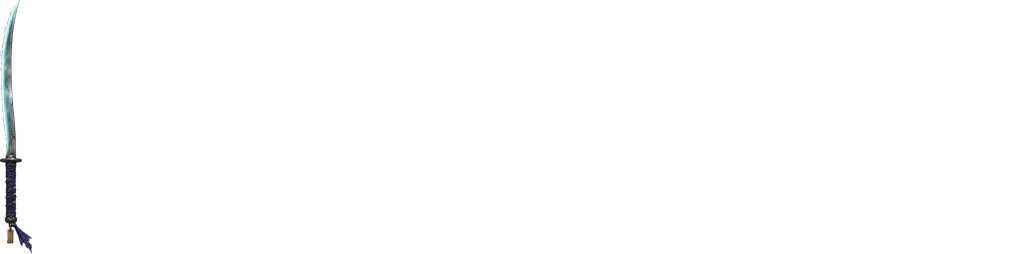
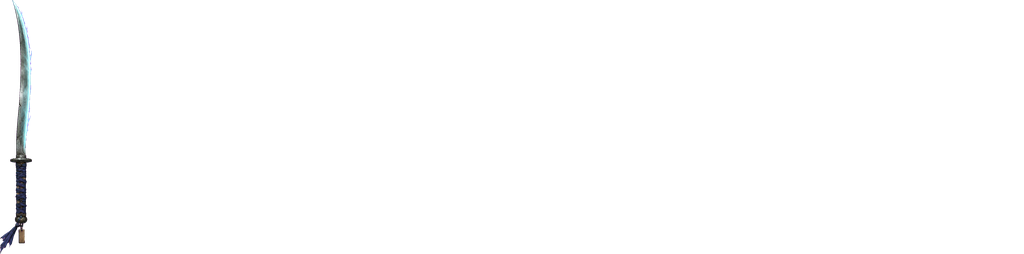
칼 쥐는 방향 수정, 자동 전투 때 영웅이 알아서 싸우러 가게
- 환도 그림을 좌우로 뒤집어 날이 아래(앞)로 오게, 평소 자세는 칼끝이 앞을 향하게
- 자동 전투가 켜져 있으면 진형 유지·따라와 명령이어도 가장 가까운 적에게 돌격

Claude-Session: https://claude.ai/code/session_01VjuNGxx5wxmvTcPiCBoU6q

Changed region(s): [[0.0, 0.0, 0.0312, 0.9921]]

diff --git a/cheonha.html b/cheonha.html
@@ -2436,7 +2436,7 @@ const Rig = (() => {
     hwando: {
       src: 'img/rig/wpn_hwando.png',
       parts: {
-        blade: { r: [0, 0, 32, 254], pv: [11.1, 185.3], tip: [18.7, 0.9] },
+        blade: { r: [0, 0, 32, 254], pv: [20.9, 185.3], tip: [13.3, 0.9] },
       },
     },
   };
@@ -2499,7 +2499,7 @@ const Rig = (() => {
       kneeF: Math.max(0, c2) * 0.7 * w, kneeB: Math.max(0, -c2) * 0.7 * w,
       uarmF: 0.12 + 0.3 * s * w + br * 0.03, uarmB: 0.05 - 0.3 * s * w - br * 0.03,
       farmF: -0.35 - 0.15 * w, farmB: -0.2 - 0.25 * w * (0.5 - 0.5 * s),
-      sword: 2.35, skirt: Math.sin(ph * 2) * 0.03 * w + br * 0.01,
+      sword: 1.55, skirt: Math.sin(ph * 2) * 0.03 * w + br * 0.01,
       sx: 1, sy: 1 + br * 0.008,
     };
     /* 발이 닿는 순간 살짝 눌렸다 펴진다 */
@@ -3782,7 +3782,9 @@ const Battle = (() => {
     return { x: B.formCx != null ? B.formCx : 380, y: B.formCy != null ? B.formCy : H / 2 };
   }
   function allyThink(u) {
-    const o = u === B.ctrl && B.order === 'follow' ? 'charge' : B.order;
+    let o = u === B.ctrl && B.order === 'follow' ? 'charge' : B.order;
+    /* 자동 전투: 진형 유지·따라와 명령이어도 알아서 가장 가까운 적에게 달려가 싸운다 (후퇴·대기는 그대로) */
+    if (B.autoCtrl && (o === 'form' || o === 'follow')) o = 'charge';
     if (o === 'retreat') {
       const t = nearestFoe(u, u.r + u.range + 4);
       if (t && Math.random() < 0.02) engage(u, t);

diff --git a/index.html b/index.html
@@ -2436,7 +2436,7 @@ const Rig = (() => {
     hwando: {
       src: 'img/rig/wpn_hwando.png',
       parts: {
-        blade: { r: [0, 0, 32, 254], pv: [11.1, 185.3], tip: [18.7, 0.9] },
+        blade: { r: [0, 0, 32, 254], pv: [20.9, 185.3], tip: [13.3, 0.9] },
       },
     },
   };
@@ -2499,7 +2499,7 @@ const Rig = (() => {
       kneeF: Math.max(0, c2) * 0.7 * w, kneeB: Math.max(0, -c2) * 0.7 * w,
       uarmF: 0.12 + 0.3 * s * w + br * 0.03, uarmB: 0.05 - 0.3 * s * w - br * 0.03,
       farmF: -0.35 - 0.15 * w, farmB: -0.2 - 0.25 * w * (0.5 - 0.5 * s),
-      sword: 2.35, skirt: Math.sin(ph * 2) * 0.03 * w + br * 0.01,
+      sword: 1.55, skirt: Math.sin(ph * 2) * 0.03 * w + br * 0.01,
       sx: 1, sy: 1 + br * 0.008,
     };
     /* 발이 닿는 순간 살짝 눌렸다 펴진다 */
@@ -3782,7 +3782,9 @@ const Battle = (() => {
     return { x: B.formCx != null ? B.formCx : 380, y: B.formCy != null ? B.formCy : H / 2 };
   }
   function allyThink(u) {
-    const o = u === B.ctrl && B.order === 'follow' ? 'charge' : B.order;
+    let o = u === B.ctrl && B.order === 'follow' ? 'charge' : B.order;
+    /* 자동 전투: 진형 유지·따라와 명령이어도 알아서 가장 가까운 적에게 달려가 싸운다 (후퇴·대기는 그대로) */
+    if (B.autoCtrl && (o === 'form' || o === 'follow')) o = 'charge';
     if (o === 'retreat') {
       const t = nearestFoe(u, u.r + u.range + 4);
       if (t && Math.random() < 0.02) engage(u, t);

diff --git a/src/rig.js b/src/rig.js
@@ -54,7 +54,7 @@ const Rig = (() => {
     hwando: {
       src: 'img/rig/wpn_hwando.png',
       parts: {
-        blade: { r: [0, 0, 32, 254], pv: [11.1, 185.3], tip: [18.7, 0.9] },
+        blade: { r: [0, 0, 32, 254], pv: [20.9, 185.3], tip: [13.3, 0.9] },
       },
     },
   };
@@ -117,7 +117,7 @@ const Rig = (() => {
       kneeF: Math.max(0, c2) * 0.7 * w, kneeB: Math.max(0, -c2) * 0.7 * w,
       uarmF: 0.12 + 0.3 * s * w + br * 0.03, uarmB: 0.05 - 0.3 * s * w - br * 0.03,
       farmF: -0.35 - 0.15 * w, farmB: -0.2 - 0.25 * w * (0.5 - 0.5 * s),
-      sword: 2.35, skirt: Math.sin(ph * 2) * 0.03 * w + br * 0.01,
+      sword: 1.55, skirt: Math.sin(ph * 2) * 0.03 * w + br * 0.01,
       sx: 1, sy: 1 + br * 0.008,
     };
     /* 발이 닿는 순간 살짝 눌렸다 펴진다 */

diff --git a/src/battle.js b/src/battle.js
@@ -759,7 +759,9 @@ const Battle = (() => {
     return { x: B.formCx != null ? B.formCx : 380, y: B.formCy != null ? B.formCy : H / 2 };
   }
   function allyThink(u) {
-    const o = u === B.ctrl && B.order === 'follow' ? 'charge' : B.order;
+    let o = u === B.ctrl && B.order === 'follow' ? 'charge' : B.order;
+    /* 자동 전투: 진형 유지·따라와 명령이어도 알아서 가장 가까운 적에게 달려가 싸운다 (후퇴·대기는 그대로) */
+    if (B.autoCtrl && (o === 'form' || o === 'follow')) o = 'charge';
     if (o === 'retreat') {
       const t = nearestFoe(u, u.r + u.range + 4);
       if (t && Math.random() < 0.02) engage(u, t);
